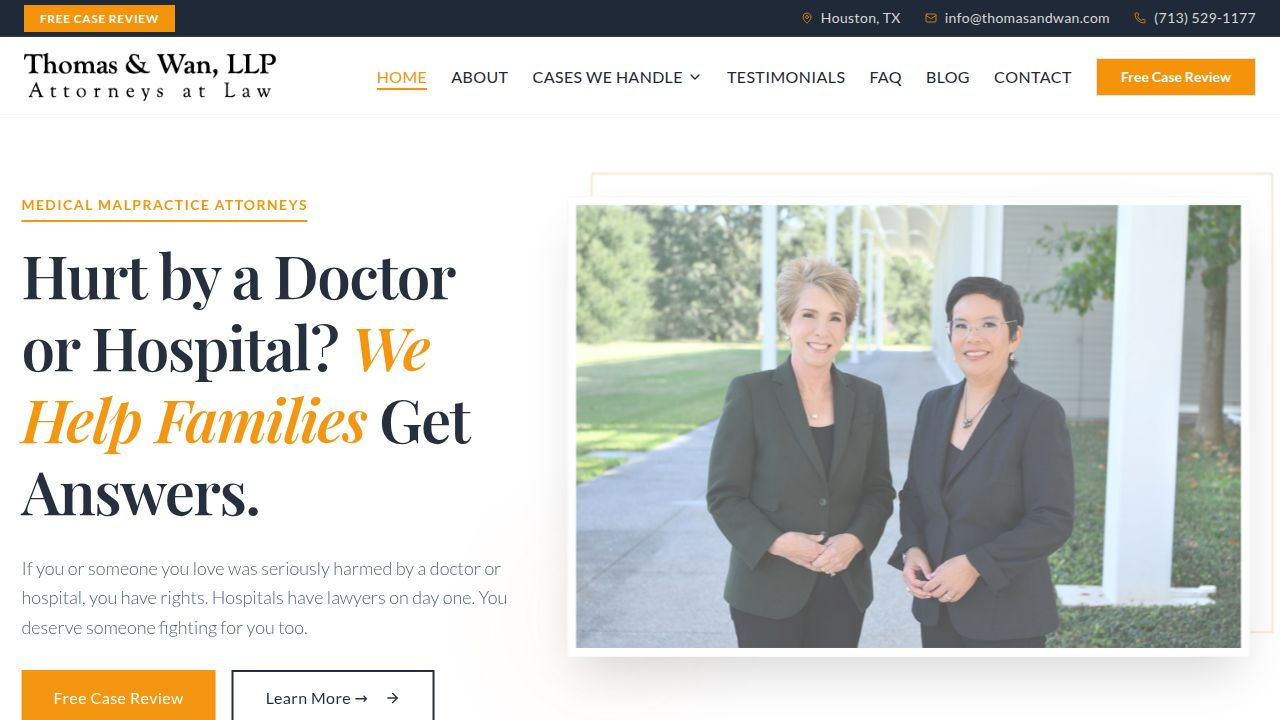
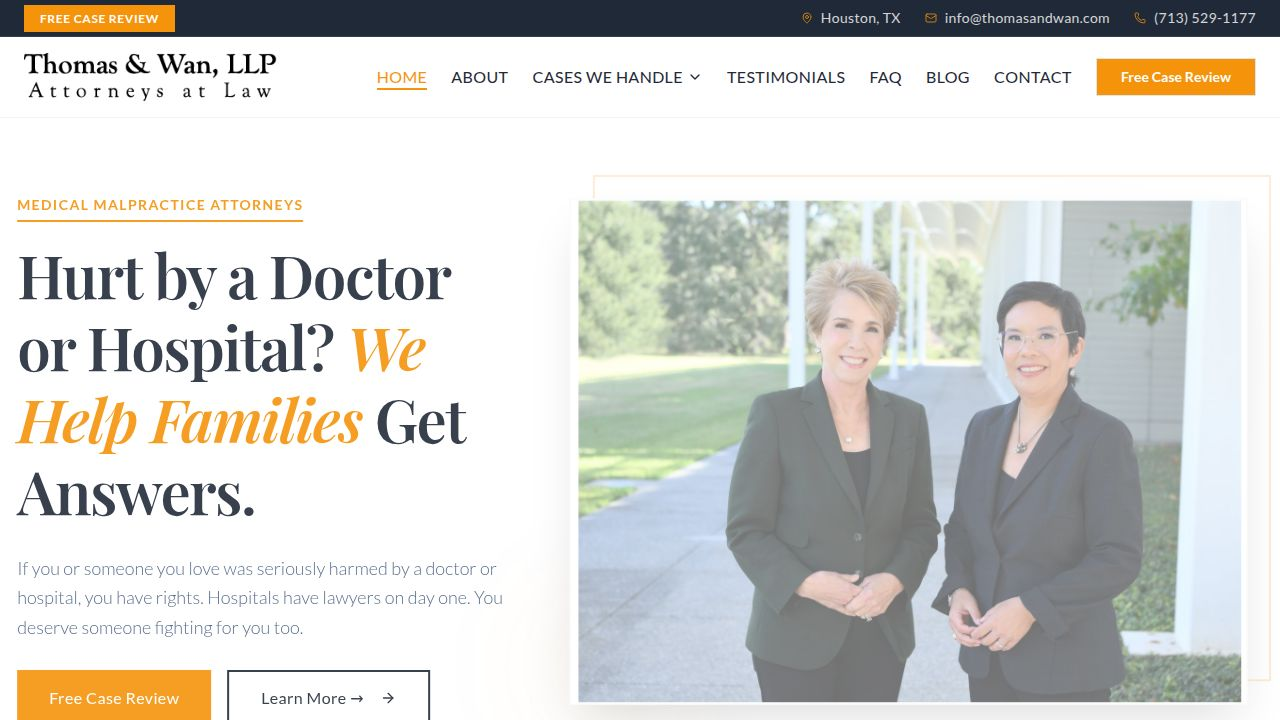
Adjust hero image to remove distracting element from the right side
Update the Hero component's styling in Hero.tsx to apply a clip-path, cropping the right side of the `/images/partners-hero.jpg` to remove an unwanted element.

Replit-Commit-Author: Agent
Replit-Commit-Session-Id: b7b5ca0f-9893-495d-b7c6-ee9052c81de7
Replit-Commit-Checkpoint-Type: full_checkpoint
Replit-Commit-Event-Id: 3a140dc2-46dd-4b23-9d06-b73ec7264269
Replit-Commit-Screenshot-Url: https://storage.googleapis.com/screenshot-production-us-central1/c2cc1403-2177-4233-8c7d-12b18c71f9fa/b7b5ca0f-9893-495d-b7c6-ee9052c81de7/PPwwXXw
Replit-Helium-Checkpoint-Created: true

diff --git a/client/src/components/Hero.tsx b/client/src/components/Hero.tsx
@@ -103,7 +103,7 @@ export default function Hero({
                  src="/images/partners-hero.jpg" 
                  alt="Linda Thomas and Michelle Wan" 
                  className="block w-full h-auto object-cover"
-                 style={{ margin: "-1% -7%", width: "114%", maxWidth: "114%" }}
+                 style={{ margin: "-1% -7% -1% 0%", width: "114%", maxWidth: "114%", clipPath: "inset(0 12% 0 0)" }}
                />
             </div>
           </div>
